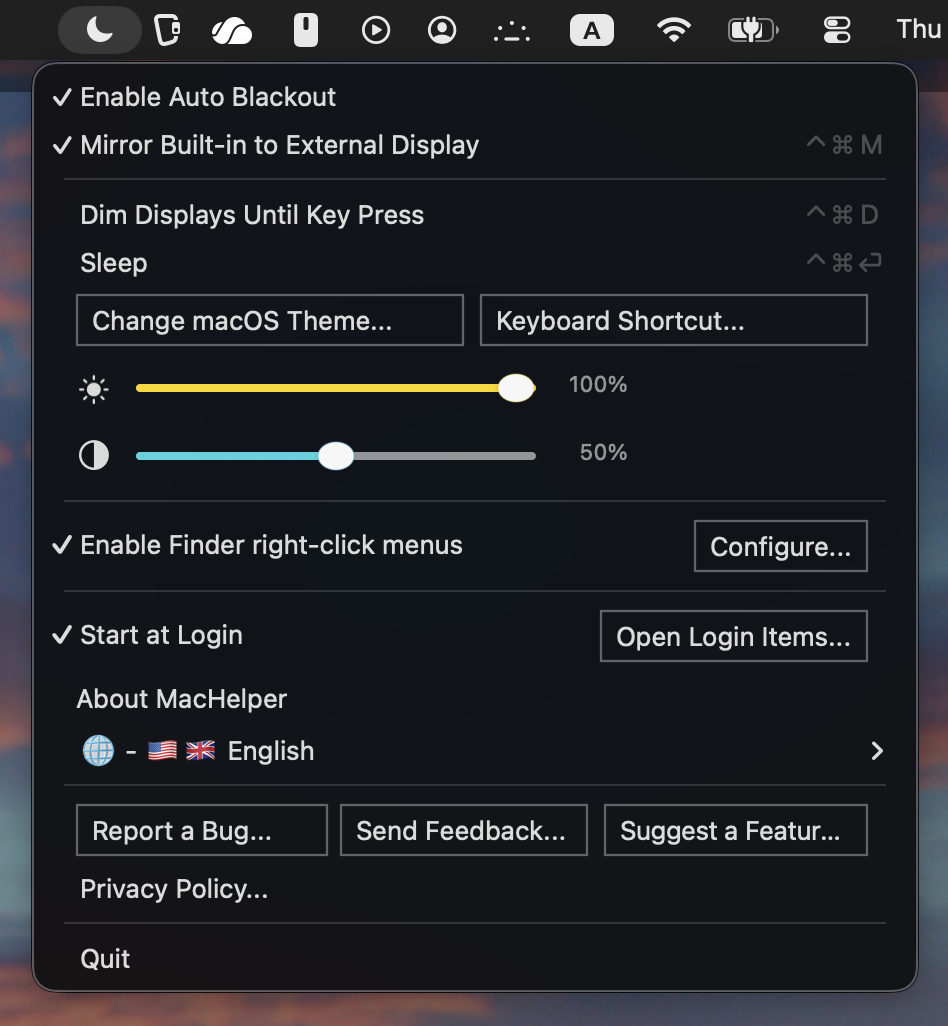
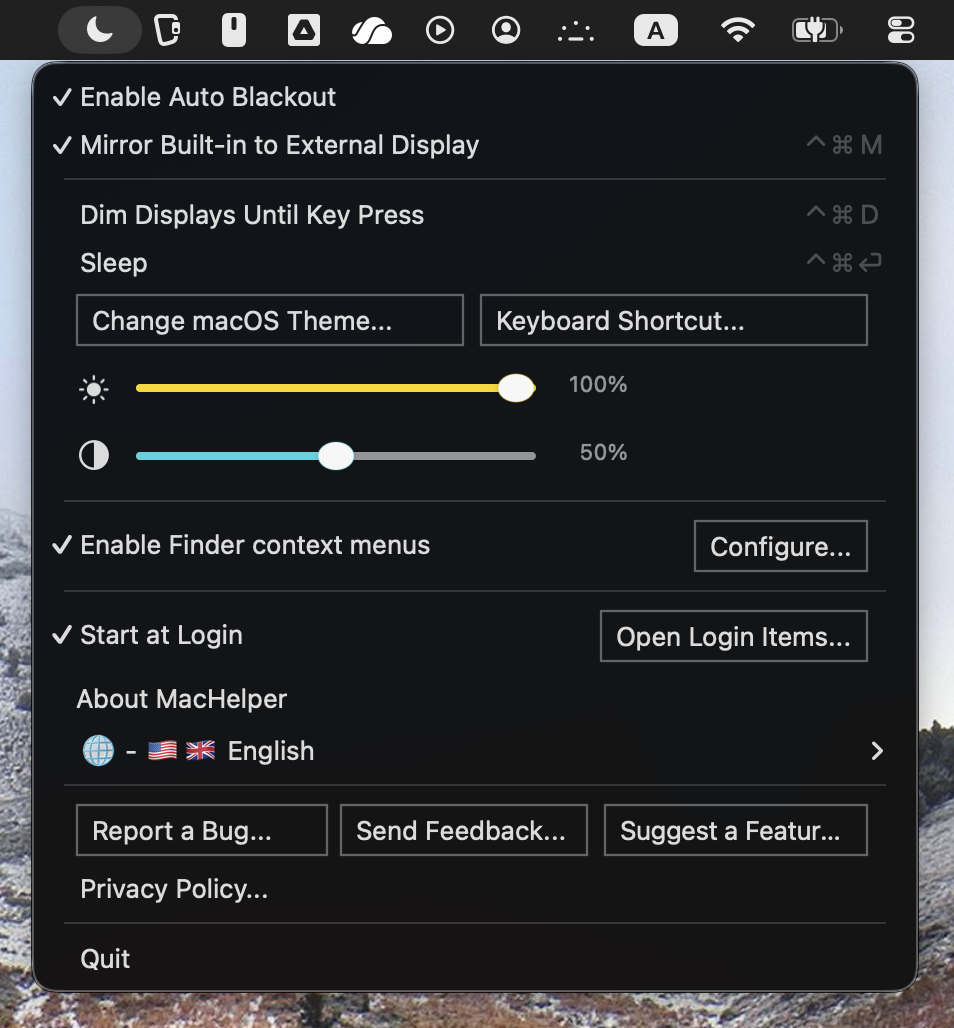
Publish MacHelper website

diff --git a/MacHelper/index.html b/MacHelper/index.html
@@ -45,8 +45,8 @@
           <p class="eyebrow">Mac App Store menu-bar utility</p>
           <h1 id="hero-title">MacHelper</h1>
           <p class="hero-subtitle">
-            A quiet menu-bar app for MacBook display control, keyboard backlight,
-            Finder context menu actions, and local Safe encryption.
+            A quiet menu-bar app for MacBook display control, Finder context
+            menu actions, and local Safe encryption.
           </p>
           <div class="hero-summary" aria-label="MacHelper summary">
             <div>
@@ -55,7 +55,7 @@
             </div>
             <div>
               <strong>Controls</strong>
-              <span>Mirror, dim, sleep, display levels, keyboard brightness, and shortcuts from the menu bar.</span>
+              <span>Mirror, dim, sleep, display levels, and shortcuts from the menu bar.</span>
             </div>
             <div>
               <strong>Finder</strong>
@@ -86,10 +86,6 @@
                 <span>Switch mirroring, dim displays until key press, sleep the Mac, and adjust display brightness or contrast from the menu bar.</span>
               </li>
               <li>
-                <strong>Keyboard backlight</strong>
-                <span>Adjust the built-in MacBook keyboard brightness with a slider.</span>
-              </li>
-              <li>
                 <strong>Finder context menus</strong>
                 <span>Use New File, New Folder, Paste, Copy Path, and Open in TextEdit, Terminal, Codex, Claude, VSCode, or another compatible app from Finder.</span>
               </li>
@@ -106,19 +102,19 @@
           <div class="product-screenshots" aria-label="MacHelper screenshots">
             <figure class="menu-screenshot">
               <img
-                src="assets/machelper-menu.png?v=20260611"
-                width="948"
-                height="1026"
+                src="assets/machelper-menu.png?v=20260614"
+                width="954"
+                height="1028"
                 loading="lazy"
                 decoding="async"
-                alt="MacHelper menu showing Auto Blackout, mirroring, display and keyboard brightness controls, Finder context menus, and quit."
+                alt="MacHelper menu showing Auto Blackout, mirroring, display controls, Finder context menus, and quit."
               >
             </figure>
             <figure class="finder-context-screenshot">
               <img
-                src="assets/finder-context-menu.png?v=20260611"
-                width="622"
-                height="886"
+                src="assets/finder-context-menu.png?v=20260614"
+                width="692"
+                height="1012"
                 loading="lazy"
                 decoding="async"
                 alt="Finder context menu highlighting MacHelper actions such as New File, New Folder, Paste, Copy Path, Open in apps, and Encrypt or Decrypt Safes."

diff --git a/MacHelper/privacy.html b/MacHelper/privacy.html
@@ -106,8 +106,8 @@
         <p>
           MacHelper uses macOS display APIs to detect displays, mirror or unmirror
           displays, darken the built-in screen, dim displays until key press, and
-          adjust display or keyboard brightness where supported. It does not send
-          display information to Xintech LLC.
+          adjust display brightness where supported. It does not send display
+          information to Xintech LLC.
         </p>
       </section>
 